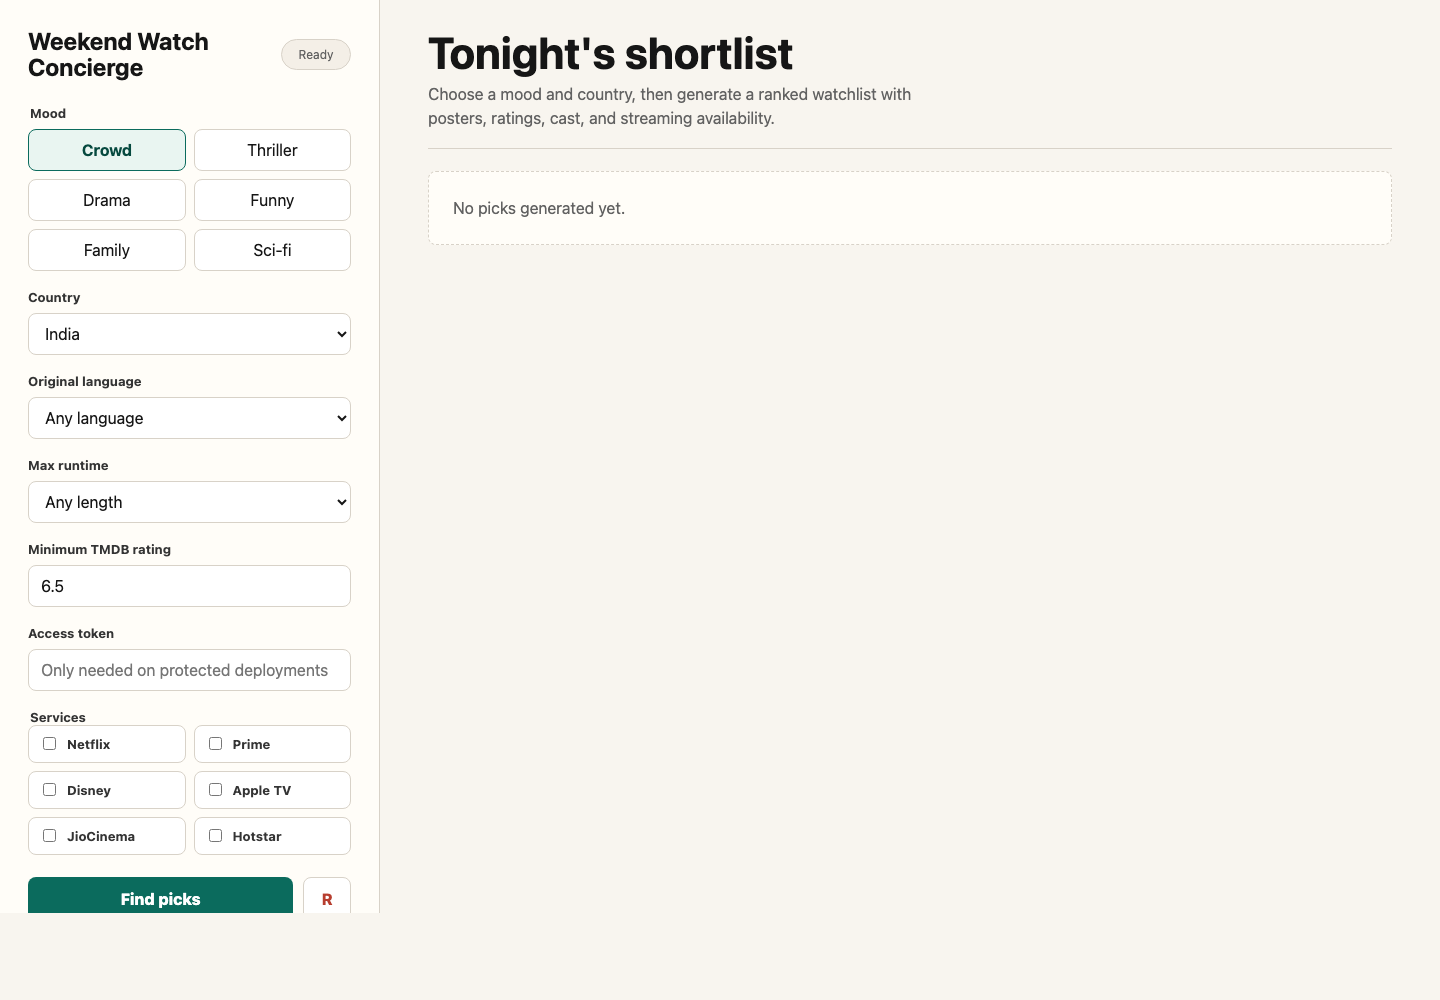
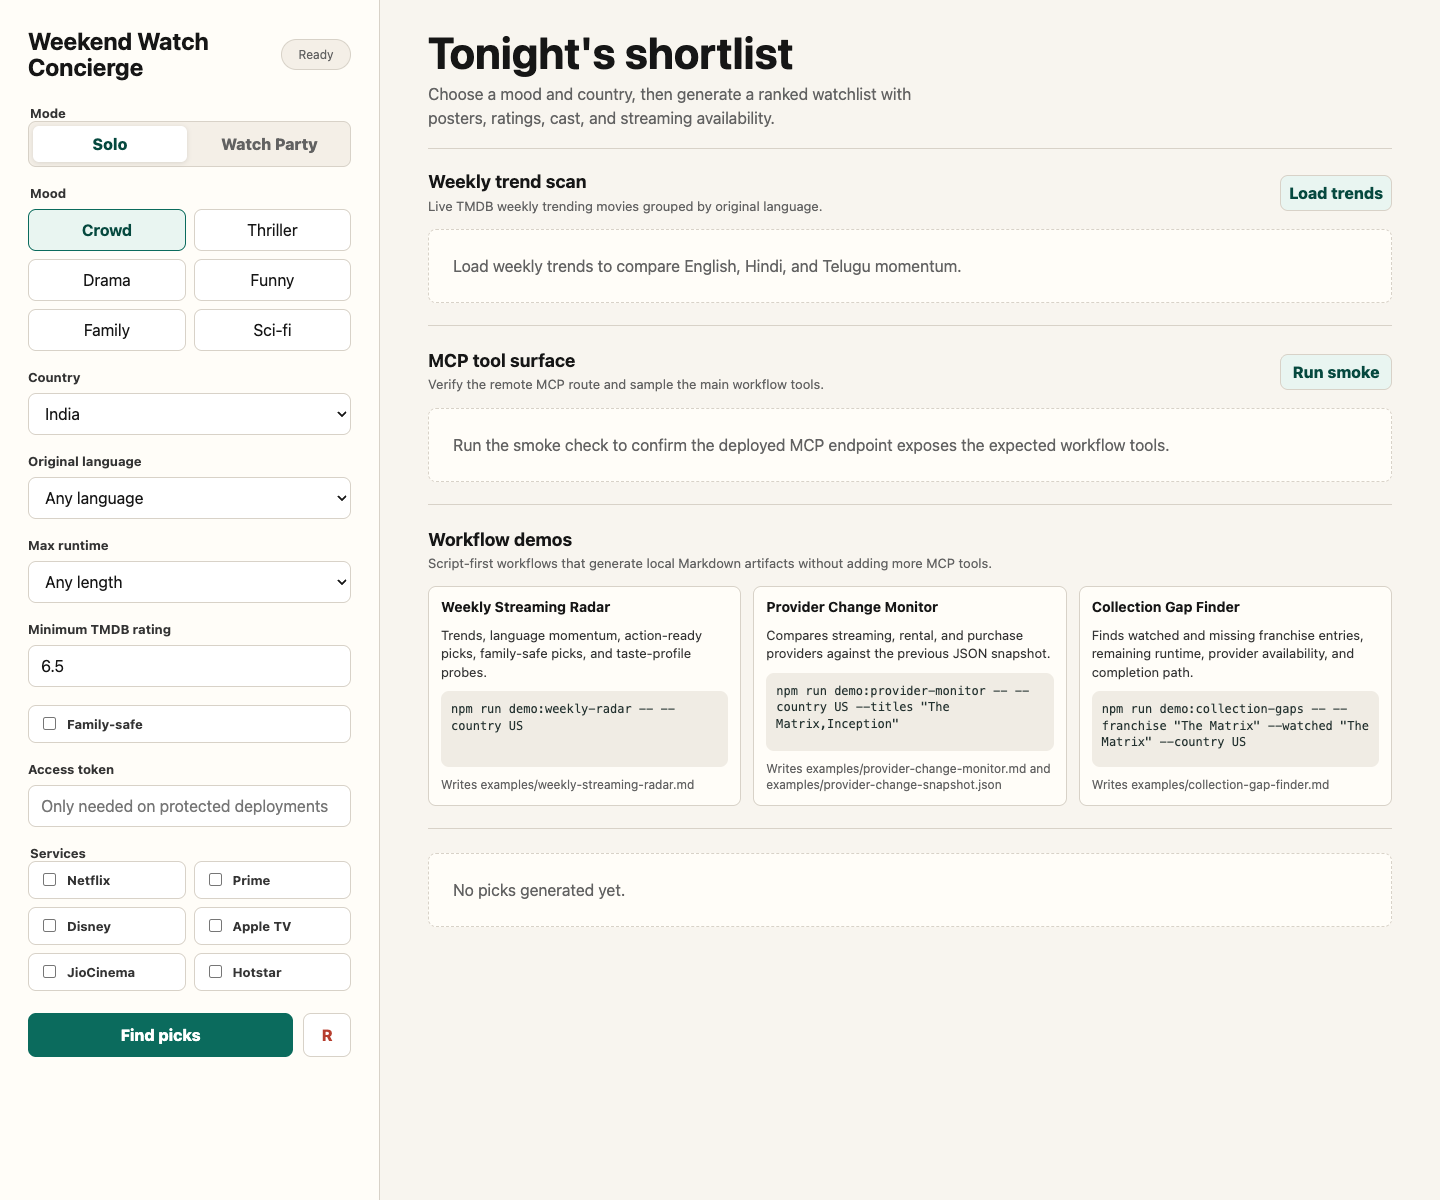
Add workflow demos panel

diff --git a/src/concierge-app.ts b/src/concierge-app.ts
@@ -409,6 +409,85 @@ export function renderConciergeApp(): string {
       border-bottom: 1px solid var(--line);
     }
 
+    .workflow-panel {
+      display: grid;
+      gap: 14px;
+      margin-bottom: 24px;
+      padding-bottom: 22px;
+      border-bottom: 1px solid var(--line);
+    }
+
+    .workflow-head {
+      display: grid;
+      gap: 4px;
+    }
+
+    .workflow-head h3 {
+      margin: 0;
+      font-size: 18px;
+      line-height: 1.2;
+      letter-spacing: 0;
+    }
+
+    .workflow-head p {
+      margin: 0;
+      color: var(--muted);
+      font-size: 13px;
+      line-height: 1.4;
+    }
+
+    .workflow-grid {
+      display: grid;
+      grid-template-columns: repeat(3, minmax(0, 1fr));
+      gap: 12px;
+    }
+
+    .workflow-card {
+      display: grid;
+      grid-template-rows: auto auto 1fr auto;
+      gap: 10px;
+      min-height: 210px;
+      border: 1px solid var(--line);
+      border-radius: 8px;
+      background: #fffdf8;
+      padding: 12px;
+    }
+
+    .workflow-card h4 {
+      margin: 0;
+      font-size: 14px;
+      line-height: 1.2;
+      letter-spacing: 0;
+    }
+
+    .workflow-card p {
+      margin: 0;
+      color: #343434;
+      font-size: 13px;
+      line-height: 1.4;
+    }
+
+    .workflow-command {
+      min-height: 76px;
+      margin: 0;
+      overflow: auto;
+      white-space: pre-wrap;
+      overflow-wrap: anywhere;
+      border-radius: 8px;
+      padding: 10px;
+      color: #23312f;
+      background: #f0ece4;
+      font-size: 12px;
+      line-height: 1.4;
+    }
+
+    .workflow-artifact {
+      color: var(--muted);
+      font-size: 12px;
+      line-height: 1.35;
+      overflow-wrap: anywhere;
+    }
+
     .mcp-output {
       display: grid;
       gap: 12px;
@@ -651,7 +730,8 @@ export function renderConciergeApp(): string {
       }
 
       .mcp-kpis,
-      .mcp-samples {
+      .mcp-samples,
+      .workflow-grid {
         grid-template-columns: 1fr;
       }
     }
@@ -821,6 +901,33 @@ export function renderConciergeApp(): string {
           <button class="mcp-button" id="run-mcp-smoke" type="button">Run smoke</button>
         </div>
         <div id="mcp-output" class="empty">Run the smoke check to confirm the deployed MCP endpoint exposes the expected workflow tools.</div>
+      </section>
+
+      <section class="workflow-panel" aria-labelledby="workflow-heading">
+        <div class="workflow-head">
+          <h3 id="workflow-heading">Workflow demos</h3>
+          <p>Script-first workflows that generate local Markdown artifacts without adding more MCP tools.</p>
+        </div>
+        <div class="workflow-grid">
+          <article class="workflow-card">
+            <h4>Weekly Streaming Radar</h4>
+            <p>Trends, language momentum, action-ready picks, family-safe picks, and taste-profile probes.</p>
+            <pre class="workflow-command">npm run demo:weekly-radar -- --country US</pre>
+            <div class="workflow-artifact">Writes examples/weekly-streaming-radar.md</div>
+          </article>
+          <article class="workflow-card">
+            <h4>Provider Change Monitor</h4>
+            <p>Compares streaming, rental, and purchase providers against the previous JSON snapshot.</p>
+            <pre class="workflow-command">npm run demo:provider-monitor -- --country US --titles "The Matrix,Inception"</pre>
+            <div class="workflow-artifact">Writes examples/provider-change-monitor.md and examples/provider-change-snapshot.json</div>
+          </article>
+          <article class="workflow-card">
+            <h4>Collection Gap Finder</h4>
+            <p>Finds watched and missing franchise entries, remaining runtime, provider availability, and completion path.</p>
+            <pre class="workflow-command">npm run demo:collection-gaps -- --franchise "The Matrix" --watched "The Matrix" --country US</pre>
+            <div class="workflow-artifact">Writes examples/collection-gap-finder.md</div>
+          </article>
+        </div>
       </section>
 
       <div id="output" class="empty">No picks generated yet.</div>

diff --git a/README.md b/README.md
@@ -211,9 +211,11 @@ This repo can also run as a remote MCP server on Cloudflare Workers. The remote 
 
 The existing local stdio server remains unchanged for Codex and local Claude Desktop use. The Cloudflare entrypoint is `src/worker.ts`.
 
-The Worker also serves a browser demo at `/`: **Weekend Watch Concierge**. It supports solo picks and Watch Party mode, then builds a ranked movie shortlist using TMDB discovery, trending, now-playing, credits, posters, and watch-provider data.
+The Worker also serves a browser demo at `/`: **Weekend Watch Concierge**. It supports solo picks and Watch Party mode, then builds a ranked movie shortlist using TMDB discovery, trending, now-playing, credits, posters, and watch-provider data. The browser app also includes a Workflow Demos panel with commands for script-first artifacts such as Weekly Streaming Radar, Provider Change Monitor, and Collection Gap Finder.
 
 The browser demo also includes an **MCP tool surface** panel that calls the deployed `/mcp` route, verifies the expected tool contract, and samples `compare_movies`, `find_where_to_watch`, `get_weekend_watchlist`, `plan_watch_party`, `build_franchise_watch_order`, `recommend_from_taste_profile`, and `build_person_watch_path`.
+
+![Weekend Watch Concierge Workflow Demos panel](docs/assets/weekend-watch-concierge-home.png)
 
 ![Weekend Watch Concierge Watch Party mode](docs/assets/weekend-watch-concierge-watch-party.png)
 

diff --git a/docs/weekend-watch-concierge.md b/docs/weekend-watch-concierge.md
@@ -4,7 +4,7 @@ Weekend Watch Concierge is a Cloudflare Worker app and remote MCP tool built on 
 
 It has two user surfaces:
 
-- Browser app: solo picks or Watch Party plans from mood, country, language, runtime, rating, streaming-service, group-size, family-safe, and avoided-title filters.
+- Browser app: solo picks or Watch Party plans from mood, country, language, runtime, rating, streaming-service, group-size, family-safe, and avoided-title filters. It also shows script-first workflow commands for local Markdown artifacts.
 - Remote MCP tools: `get_weekend_watchlist`, `plan_watch_party`, `build_franchise_watch_order`, `recommend_from_taste_profile`, and `build_person_watch_path`, so agents can ask for the same shortlist, group plan, franchise guide, taste-based recommendations, or person watch path through `/mcp`.
 
 ## Screenshots
@@ -112,6 +112,14 @@ POST /api/concierge
 ```
 
 and receives ranked picks with title, poster, year, rating, runtime, genres, cast, director, provider data, and ranking reasons.
+
+The **Workflow demos** panel lists local commands for Markdown artifact workflows:
+
+- `npm run demo:weekly-radar`
+- `npm run demo:provider-monitor`
+- `npm run demo:collection-gaps`
+
+Those commands run outside the browser and intentionally stay script-first to avoid expanding the public MCP tool surface.
 
 ## MCP Tool
 
